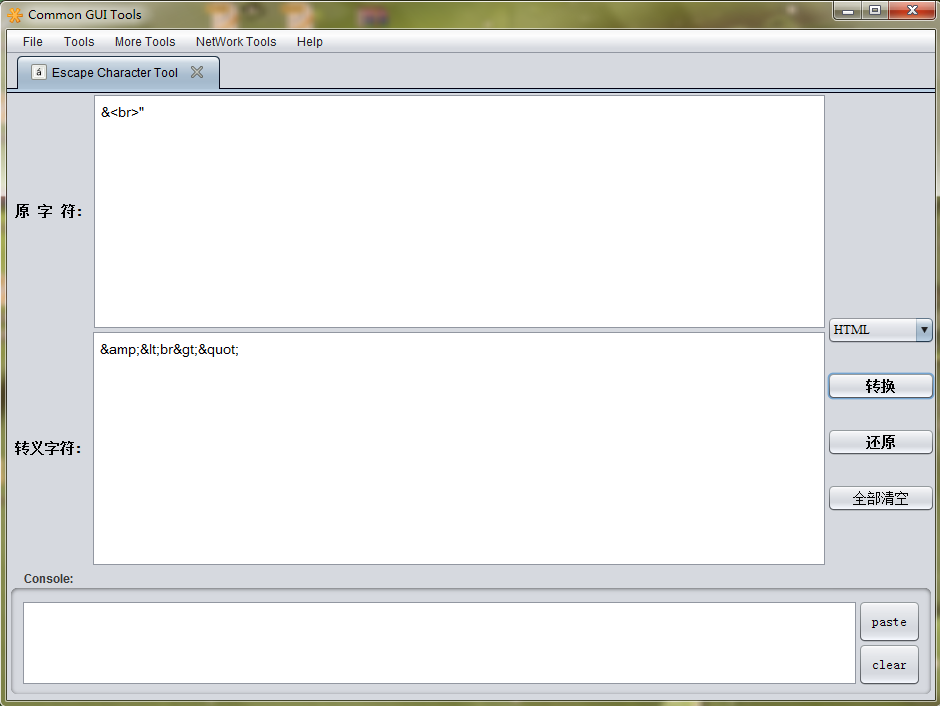
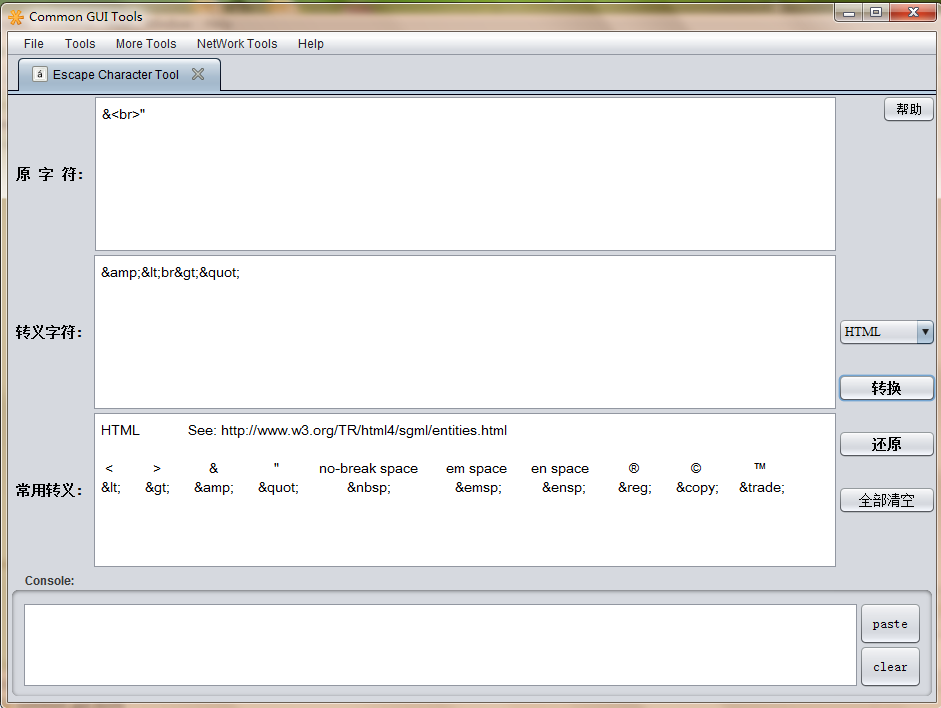
完善插件Escape Character Tool

diff --git a/src/bs/util/tool/commongui/plugins/more/EscapeCharacterTool.java b/src/bs/util/tool/commongui/plugins/more/EscapeCharacterTool.java
@@ -8,6 +8,7 @@ import java.awt.event.MouseEvent;
 import java.awt.event.MouseListener;
 
 import javax.swing.JComboBox;
+import javax.swing.JOptionPane;
 import javax.swing.JPanel;
 import javax.swing.JScrollPane;
 import javax.swing.JTextArea;
@@ -32,22 +33,58 @@ public class EscapeCharacterTool extends GuiJPanel {
 	 * 转义文本域.
 	 */
 	private JTextArea escapeTextArea = createJTextArea(GuiUtils.font14_un);
+	/**
+	 * 帮助文本域.
+	 */
+	private JTextArea helpTextArea = createJTextArea(GuiUtils.font14_un);
 
 	/**
 	 * 字符类型.
 	 */
 	private String[] characterTypes = new String[] { LanguageUtils.CONST_HTML, LanguageUtils.CONST_XML,
-			LanguageUtils.CONST_SQL, LanguageUtils.CONST_JAVA, LanguageUtils.CONST_JAVASCRIPT, LanguageUtils.CONST_CSV };
+			LanguageUtils.CONST_JAVA, LanguageUtils.CONST_JavaScript, LanguageUtils.CONST_CSV };
 	/**
 	 * 字符类型.
 	 */
 	private String curCharacterType = characterTypes[0];
 
+	/**
+	 * HTML转义说明.
+	 */
+	private static final String ESCAPE_HELP_HTML = "HTML            See: http://www.w3.org/TR/html4/sgml/entities.html"
+			+ "\n"
+			+ "\n <          >            &              \"          no-break space       em space      en space          ®             ©             ™"
+			+ "\n&lt;      &gt;      &amp;      &quot;            &nbsp;                &emsp;          &ensp;        &reg;      &copy;     &trade;";
+	/**
+	 * XML转义说明.
+	 */
+	private static final String ESCAPE_HELP_XML = "XML              See: http://www.xmlnews.org/docs/xml-basics.html"
+			+ "\n" + "\n <          >            &               \"               '"
+			+ "\n&lt;      &gt;      &amp;      &quot;      &apos;";
+	/**
+	 * JAVA转义说明.
+	 */
+	private static final String ESCAPE_HELP_JAVA = "JAVA             See: http://docs.oracle.com/javase/tutorial/java/data/characters.html"
+			+ "\n"
+			+ "\n回车符     换行符     制表符     单引号     双引号     反斜杠     退格符     换页符"
+			+ "\n    \\r             \\n             \\t              \\'             \\\"              \\\\             \\b             \\f";
+	/**
+	 * JavaScript转义说明.
+	 */
+	private static final String ESCAPE_HELP_JavaScript = "JavaScript     See: http://www.w3schools.com/js/js_strings.asp"
+			+ "\n"
+			+ "\n回车符     换行符     制表符     单引号     双引号     反斜杠     退格符     换页符"
+			+ "\n    \\r             \\n             \\t              \\'             \\\"              \\\\             \\b             \\f";
+	/**
+	 * CSV转义说明.
+	 */
+	private static final String ESCAPE_HELP_CSV = "";
+
 	public EscapeCharacterTool() {
 		// 边界布局
 		setLayout(new BorderLayout());
-		// Center，字符及转义结果输入输出域，使用2行1列的Grid布局，使其平均显示
-		JPanel textAreaPanel = new JPanel(new GridLayout(2, 1));
+		// Center，字符及转义结果输入输出域，使用3行1列的Grid布局，使其平均显示
+		JPanel textAreaPanel = new JPanel(new GridLayout(3, 1));
 		add(textAreaPanel, BorderLayout.CENTER);
 
 		JPanel scriptPanel = new JPanel(new BorderLayout());
@@ -60,10 +97,31 @@ public class EscapeCharacterTool extends GuiJPanel {
 		resultPanel.add(new JScrollPane(escapeTextArea), BorderLayout.CENTER);
 		textAreaPanel.add(resultPanel);
 
+		JPanel helpTextPanel = new JPanel(new BorderLayout());
+		addJLabel(helpTextPanel, " 常用转义: ", GuiUtils.font14b_cn, BorderLayout.WEST);
+		helpTextPanel.add(new JScrollPane(helpTextArea), BorderLayout.CENTER);
+		textAreaPanel.add(helpTextPanel);
+
+		setHelpTextArea();
+
 		// East，操作区域，使用BorderLayout布局
 		JPanel actionPanel = new JPanel(new BorderLayout());
 		add(actionPanel, BorderLayout.EAST);
 
+		// 帮助面板
+		JPanel helpPanel = new JPanel(new BorderLayout());
+		JPanel helpButtonPanel = new JPanel(new BorderLayout());
+		helpPanel.add(helpButtonPanel, BorderLayout.EAST);
+		addJButton(helpButtonPanel, "帮助", "", GuiUtils.font13_cn, new ActionListener() {
+			@Override
+			public void actionPerformed(ActionEvent event) {
+				showTextAreaMessage("常用转义字符" + "\n\n" + ESCAPE_HELP_HTML + "\n\n\n" + ESCAPE_HELP_XML + "\n\n\n"
+						+ ESCAPE_HELP_JAVA + "\n\n\n" + ESCAPE_HELP_JavaScript + "\n\n\n" + ESCAPE_HELP_CSV, "帮助",
+						JOptionPane.INFORMATION_MESSAGE, null, null);
+			}
+		});
+
+		actionPanel.add(helpPanel, BorderLayout.NORTH);
 		// 填充
 		actionPanel.add(new JPanel(), BorderLayout.CENTER);
 
@@ -73,6 +131,7 @@ public class EscapeCharacterTool extends GuiJPanel {
 		addJComboBox(buttonPanel, characterTypes, GuiUtils.font13, new ActionListener() {
 			public void actionPerformed(ActionEvent event) {
 				curCharacterType = ((JComboBox) event.getSource()).getSelectedItem().toString();
+				setHelpTextArea();
 			}
 		});
 		buttonPanel.add(new JPanel()); // 仅做填充
@@ -125,6 +184,23 @@ public class EscapeCharacterTool extends GuiJPanel {
 				escapeTextArea.setText("");
 			}
 		});
+	}
+
+	/**
+	 * 设置帮助文本域显示文字.
+	 */
+	private void setHelpTextArea() {
+		if (curCharacterType.equals(LanguageUtils.CONST_HTML)) {
+			helpTextArea.setText(ESCAPE_HELP_HTML);
+		} else if (curCharacterType.equals(LanguageUtils.CONST_XML)) {
+			helpTextArea.setText(ESCAPE_HELP_XML);
+		} else if (curCharacterType.equals(LanguageUtils.CONST_JAVA)) {
+			helpTextArea.setText(ESCAPE_HELP_JAVA);
+		} else if (curCharacterType.equals(LanguageUtils.CONST_JavaScript)) {
+			helpTextArea.setText(ESCAPE_HELP_JavaScript);
+		} else if (curCharacterType.equals(LanguageUtils.CONST_CSV)) {
+			helpTextArea.setText(ESCAPE_HELP_CSV);
+		}
 	}
 
 }

diff --git a/src/bs/util/tool/commongui/utils/EscapeUtils.java b/src/bs/util/tool/commongui/utils/EscapeUtils.java
@@ -20,7 +20,7 @@ public class EscapeUtils {
 			unescape = StringEscapeUtils.escapeSql(string);
 		} else if (type.equals(LanguageUtils.CONST_JAVA)) {
 			unescape = StringEscapeUtils.escapeJava(string);
-		} else if (type.equals(LanguageUtils.CONST_JAVASCRIPT)) {
+		} else if (type.equals(LanguageUtils.CONST_JavaScript)) {
 			unescape = StringEscapeUtils.escapeJavaScript(string);
 		} else if (type.equals(LanguageUtils.CONST_CSV)) {
 			unescape = StringEscapeUtils.escapeCsv(string);
@@ -44,7 +44,7 @@ public class EscapeUtils {
 			escape = type + "转义字符不能进行还原";
 		} else if (type.equals(LanguageUtils.CONST_JAVA)) {
 			escape = StringEscapeUtils.unescapeJava(string);
-		} else if (type.equals(LanguageUtils.CONST_JAVASCRIPT)) {
+		} else if (type.equals(LanguageUtils.CONST_JavaScript)) {
 			escape = StringEscapeUtils.unescapeJavaScript(string);
 		} else if (type.equals(LanguageUtils.CONST_CSV)) {
 			escape = StringEscapeUtils.unescapeCsv(string);

diff --git a/src/bs/util/tool/commongui/GuiJPanel.java b/src/bs/util/tool/commongui/GuiJPanel.java
@@ -1,5 +1,6 @@
 package bs.util.tool.commongui;
 
+import java.awt.Color;
 import java.awt.Font;
 import java.awt.event.ActionEvent;
 import java.awt.event.ActionListener;
@@ -215,6 +216,25 @@ public abstract class GuiJPanel extends JPanel {
 	 */
 	public void showMessage(String message, String title, int type) {
 		JOptionPane.showMessageDialog(this, message, title, type);
+	}
+
+	/**
+	 * 消息提示.
+	 */
+	public void showTextAreaMessage(String message, String title, int type, Font font, Color background) {
+		JTextArea textArea = new JTextArea(message);
+		if (font == null) {
+			textArea.setFont(GuiUtils.font14_un);
+		} else {
+			textArea.setFont(font);
+		}
+		textArea.setEditable(false);
+		if (background == null) {
+			textArea.setBackground(new Color(214, 217, 223));
+		} else {
+			textArea.setBackground(background);
+		}
+		JOptionPane.showMessageDialog(this, textArea, title, type);
 	}
 
 	/**

diff --git a/src/bs/util/tool/commongui/plugins/RegexTester.java b/src/bs/util/tool/commongui/plugins/RegexTester.java
@@ -158,7 +158,7 @@ public class RegexTester extends GuiJPanel {
 		helpButtonPanel.add(new Panel());// 仅作填充
 		addJButton(helpButtonPanel, "帮助", "", GuiUtils.font13_cn, new ActionListener() {
 			public void actionPerformed(ActionEvent event) {
-				showMessage(helpText, "帮助", JOptionPane.INFORMATION_MESSAGE);
+				showTextAreaMessage(helpText, "帮助", JOptionPane.INFORMATION_MESSAGE, null, null);
 			}
 		});
 		actionGridPanel.add(helpButtonPanel);

diff --git a/src/bs/util/tool/commongui/utils/LanguageUtils.java b/src/bs/util/tool/commongui/utils/LanguageUtils.java
@@ -23,9 +23,9 @@ public class LanguageUtils {
 	public static final String CONST_XML = "XML";
 
 	/**
-	 * JAVASCRIPT.
+	 * JavaScript.
 	 */
-	public static final String CONST_JAVASCRIPT = "JAVASCRIPT";
+	public static final String CONST_JavaScript = "JavaScript";
 
 	/**
 	 * URI.

diff --git a/README.md b/README.md
@@ -131,7 +131,7 @@ Java GUI实用小工具集 Common Gui Tools
 <br />项目：<a href="http://code.google.com/p/java-zhconverter/" target="_blank">java-zhconverter</a>
 
 <b>15，<a id="Escape Character Tool">字符转义工具：Escape Character Tool</a></b>
-<br />HTML、XML、SQL、JAVA、JAVASCRIPT、CSV字符转义字符及还原，使用Apache Commons-lang的StringEscapeUtils类。
+<br />HTML、XML、JAVA、JavaScript、CSV字符转义字符及还原，使用Apache Commons-lang的StringEscapeUtils类。
 <br />
 ![Escape Character Tool](https://raw.githubusercontent.com/baishui2004/common_gui_tools/master/documention/images/Escape%20Character%20Tool.png)
 
